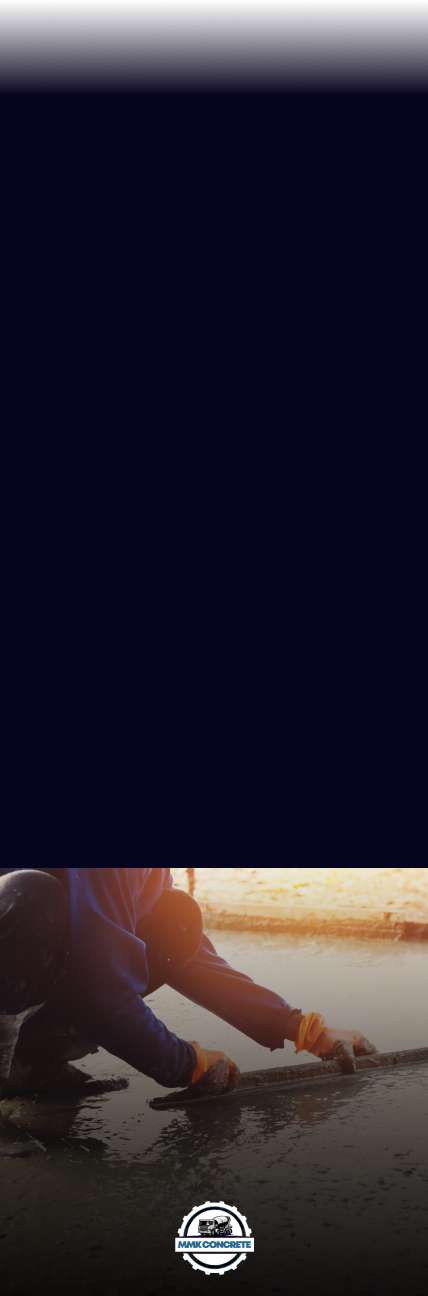
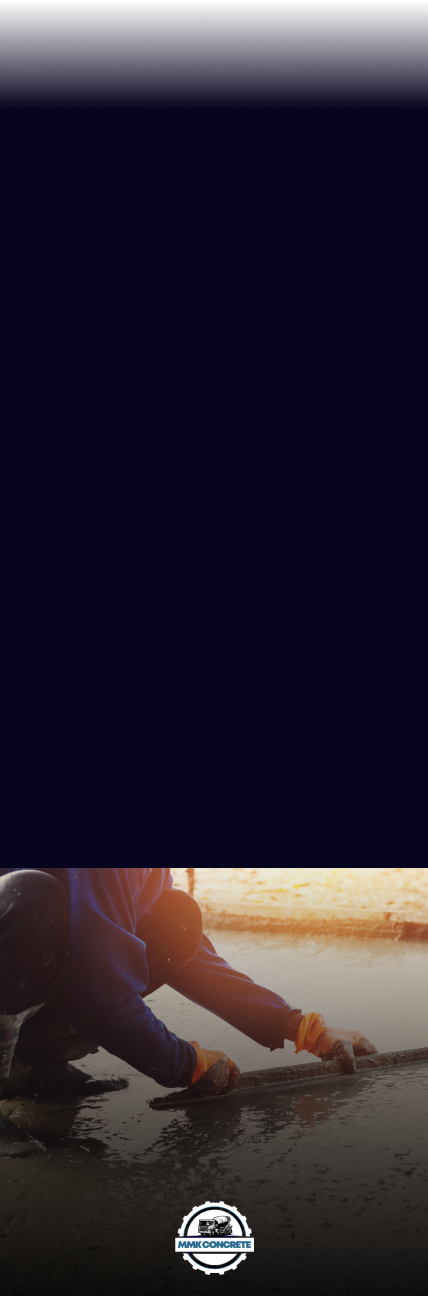
alteracoes2 01-12

Changed region(s): [[0.0, 0.0309, 1.0, 0.0926]]

diff --git a/css/style.css b/css/style.css
@@ -532,7 +532,7 @@ header {
         background-color: transparent;
     }
     .aboutcontainer .bgs-mob{
-        top: -100;
+        top: -120;
     }
     .aboutcontainer img{
         max-height: 110%;
@@ -569,7 +569,7 @@ header {
 }
 @media screen and (max-width:800px) {
     .aboutcontainer{
-        max-height: 900;
+        max-height: auto;
     }
     .aboutcontainer img{
         max-height: none;
@@ -578,7 +578,7 @@ header {
         padding:0 10;
     }
     .about h2{
-        margin-top: 20px;
+        margin-top: 40px;
         margin-bottom: 60px;
     }
     .about h2 svg{
@@ -702,7 +702,7 @@ header {
 @media screen and (max-width:790px) {
     .servicescontainer{
         padding: 0 10;
-        margin-top: 289
+        margin-top: 309
     }
     .mySwiper {
       max-height: 590px;
@@ -923,7 +923,7 @@ header {
 @media screen and (max-width: 770px) {
     .request{
         height: 120px;
-        top: 55;
+        top: 75;
     }
 
 }
